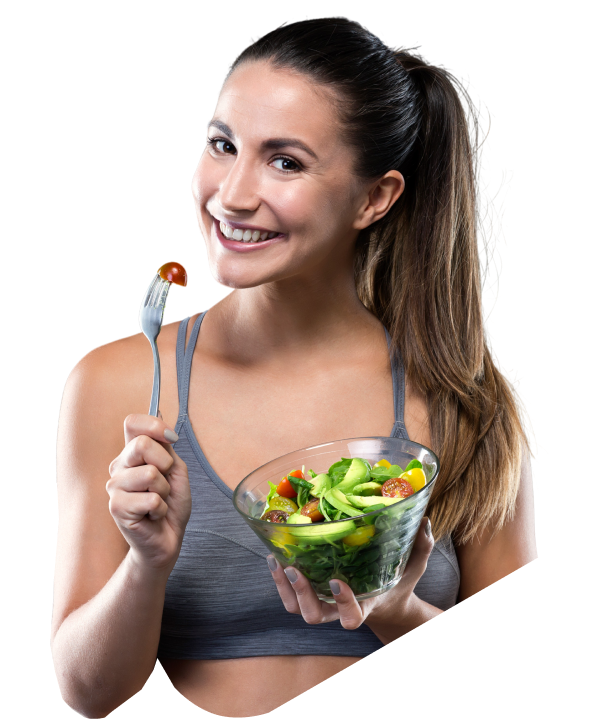
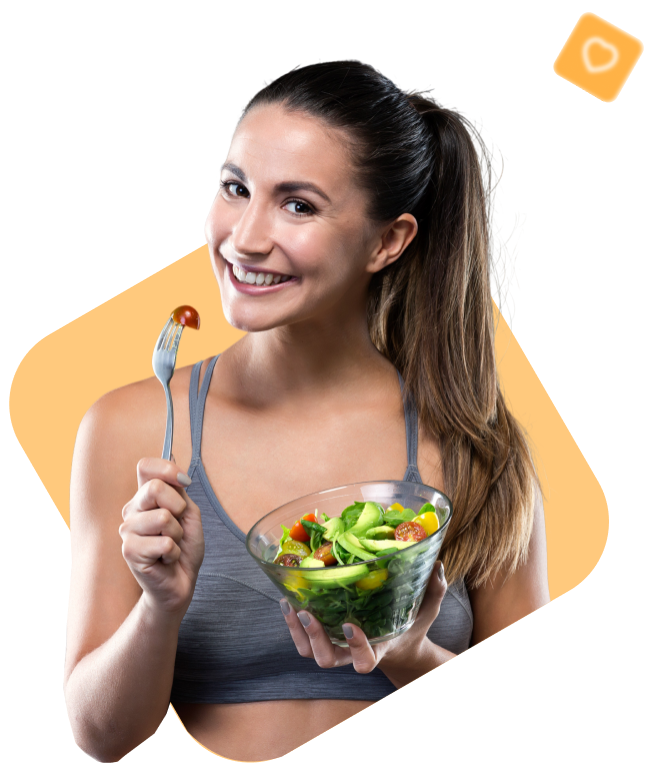
Salad

diff --git a/project.css b/project.css
@@ -135,18 +135,96 @@ color: var(--background-White);
 /* finish styling header */
 
 /* start styling hero section */
-.section-one{
+/* .section-one{
     padding-bottom: 150px;
-}
+} */
 .hero-section{
     display: flex;
     gap: 50px;
 }
 .hero-img{
-    width: 600px;
     height: auto;
-    padding-top: 64px;
+    padding-top: 54px;
 }
+/* rectangle one */
+.hero-rectangle-one{
+    position: relative;
+bottom: 150px;
+    display: flex;
+    width: 288px;
+    height: 70px;
+    border-radius: 35px;
+background: var(--main-text-background-color);
+box-shadow: 0px 20px 40px 0px rgba(255, 211, 71, 0.14);
+}
+[src="./salad-img/box1.png"]{
+    width: 60px;
+height: 60px;
+padding: 10px 0px 5px 7px;
+}
+.rectangle-information{
+    padding: 10px 0px 10px 16px;
+}
+.rectangle-name{
+font-family: var(--main-poppins-font-family);
+font-size: 16px;
+font-style: normal;
+font-weight: var(--poppins-font-weight-three);
+line-height: normal;
+color: var(--name-color);
+}
+.rectangle-name+p{
+font-family: var(--main-poppins-font-family);
+font-size: 12px;
+font-style: normal;
+font-weight: var(--poppins-font-weight-three);
+line-height: 160%;
+color: var(--name-cards);
+}
+.rectangle-name+p span{
+color: var(--two-text-color);
+font-family: var(--main-poppins-font-family);
+font-size: 12px;
+font-style: normal;
+font-weight: var(--poppins-font-weight-three);
+line-height: normal;
+}
+/* box two  */
+.hero-rectangle-two{
+    width: 167.657px;
+height: 193px;
+    position: relative;
+        left: 380px;
+        bottom: 240px;
+    border-radius: 28px;
+    box-shadow: 0px 20px 40px 0px rgba(255, 211, 71, 0.14);
+background: var(--main-text-background-color);
+}
+.rectangle-text{
+font-family: var(--main-poppins-font-family);
+font-size: 16px;
+font-style: normal;
+font-weight: var(--poppins-font-weight-two);
+line-height: 160%;
+padding: 16px 24px 0px 24px;
+color: var(--name-color);
+}
+.rectangle-name-two{
+    color: var(--name-cards);
+font-family: var(--main-poppins-font-family);
+font-size: 24px;
+font-style: normal;
+font-weight: var(--poppins-font-weight-three);
+line-height: 160%;
+padding-left: 24px;
+}
+.rectangle-name-two span{
+    color: var(--name-color);
+}
+[src="./salad-img/box2.png"]{
+    padding-left: 24px;
+}
+/* box two finish styles */
 .button-hero-one{
     width: 223px;
     height: 53px;
@@ -312,8 +390,8 @@ padding: 15px 50px 15px 24px;
 margin: 0px 160px 30px 40px;
 color: var(--name-color);
 }
-.learn-card:hover{
-    color: var(--cards-color);
+.card-information:hover .learn-card{
+    color: var(--background-White);
     border-radius: 100px;
 background: var(--main-color);
 }

diff --git a/index.html b/index.html
@@ -59,7 +59,25 @@
                 </li>
               </ul>
             </div>
-            <img class="hero-img" src="./salad-img/hero.png" alt="" />
+            <!-- one box -->
+            <div class="hero-photo">
+              <!-- box one -->
+              <img class="hero-img" src="./salad-img/hero.png" alt="" />
+              <div class="hero-rectangle-one">
+                <img src="./salad-img/box1.png" alt="" />
+                <div class="rectangle-information">
+                  <h4 class="rectangle-name">Our Happy Customer</h4>
+                  <p>&#11088; 4.9 <span>(1.989 Reviews)</span></p>
+                </div>
+              </div>
+              <!-- box two -->
+              <div class="hero-rectangle-two">
+                <p class="rectangle-text">Daily Calories</p>
+                <h4 class="rectangle-name-two">123<span>Cal</span></h4>
+                <img src="./salad-img/box2.png" alt="" />
+              </div>
+              <!-- box two -->
+            </div>
           </div>
         </div>
       </section>
